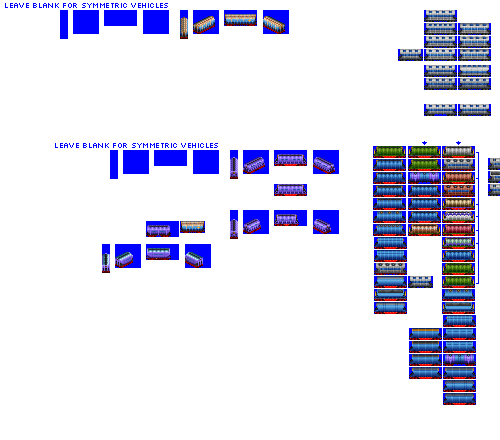
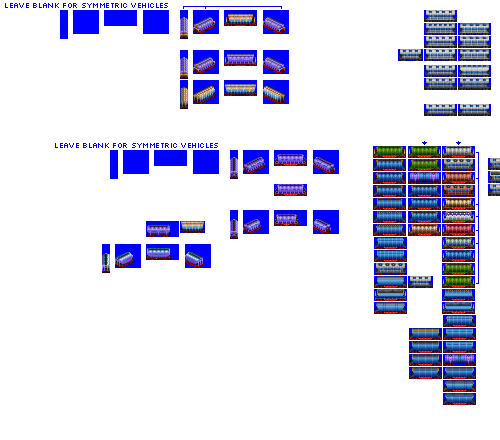
Change: WIP on improved pony covered hoppers

Changed region(s): [[0.36, 0.0295, 0.6, 0.2659]]

diff --git a/src/vehicles/pony/chemical_covered_hopper_cars_pony.py b/src/vehicles/pony/chemical_covered_hopper_cars_pony.py
@@ -103,7 +103,7 @@ def main(roster_id, **kwargs):
         base_numeric_id=26910,
         gen=5,
         subtype="B",
-        sprites_complete=True,
+        sprites_complete=False,
     )
 
     consist.add_unit(type=FreightCar, chassis="2_axle_gapped_greebled_24px")
@@ -114,7 +114,7 @@ def main(roster_id, **kwargs):
         base_numeric_id=36920,
         gen=5,
         subtype="C",
-        sprites_complete=True,
+        sprites_complete=False,
     )
 
     consist.add_unit(type=FreightCar, chassis="4_axle_half_filled_greebled_32px")
